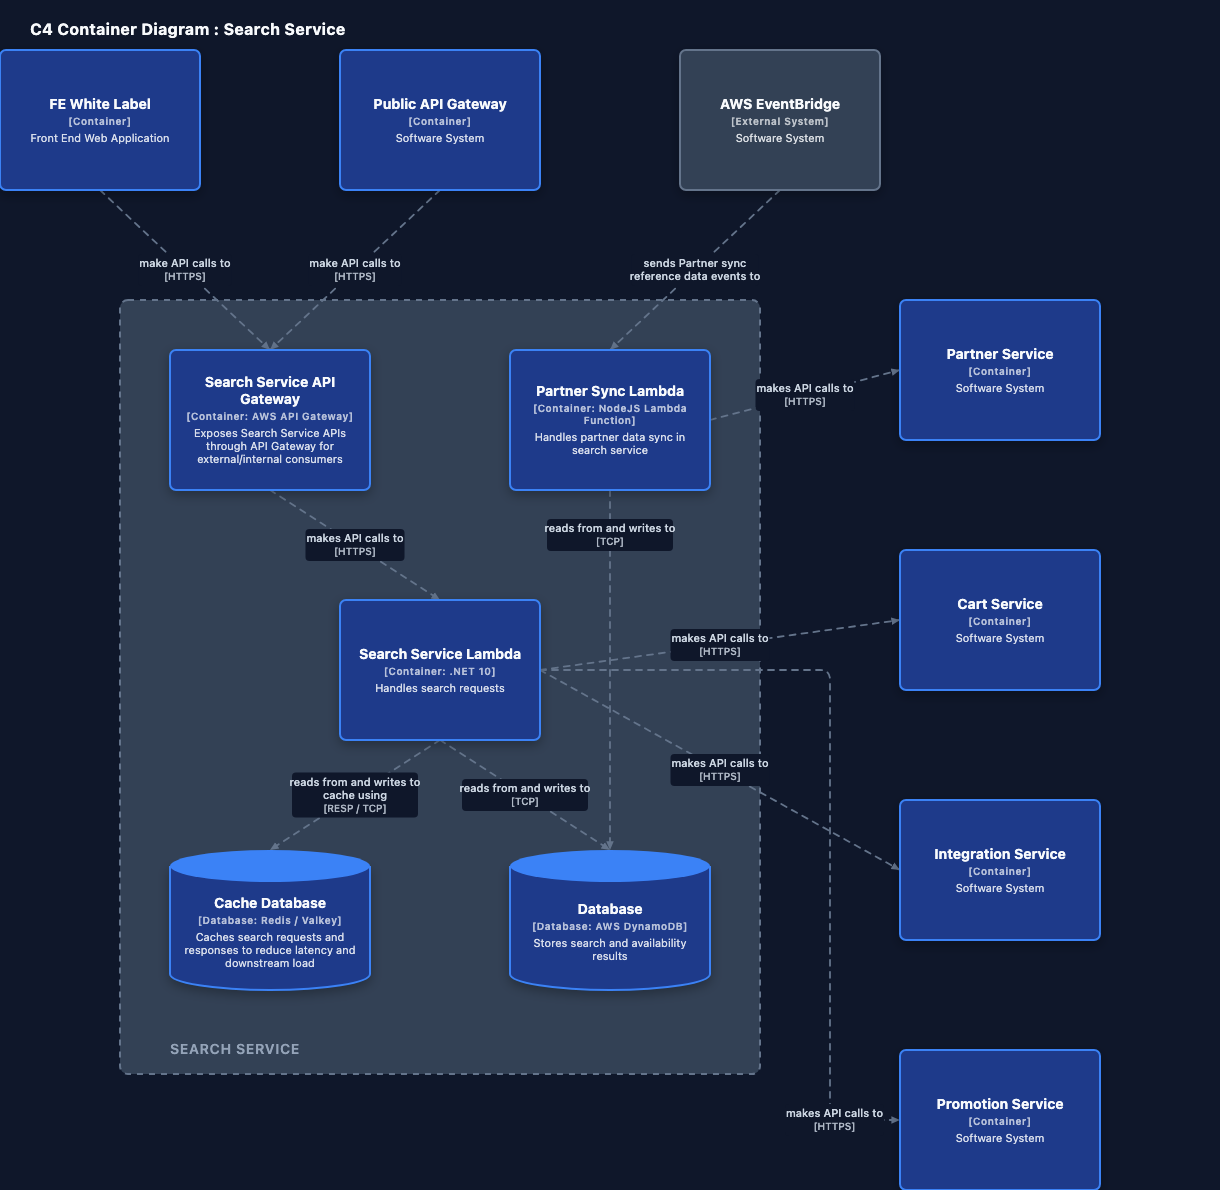
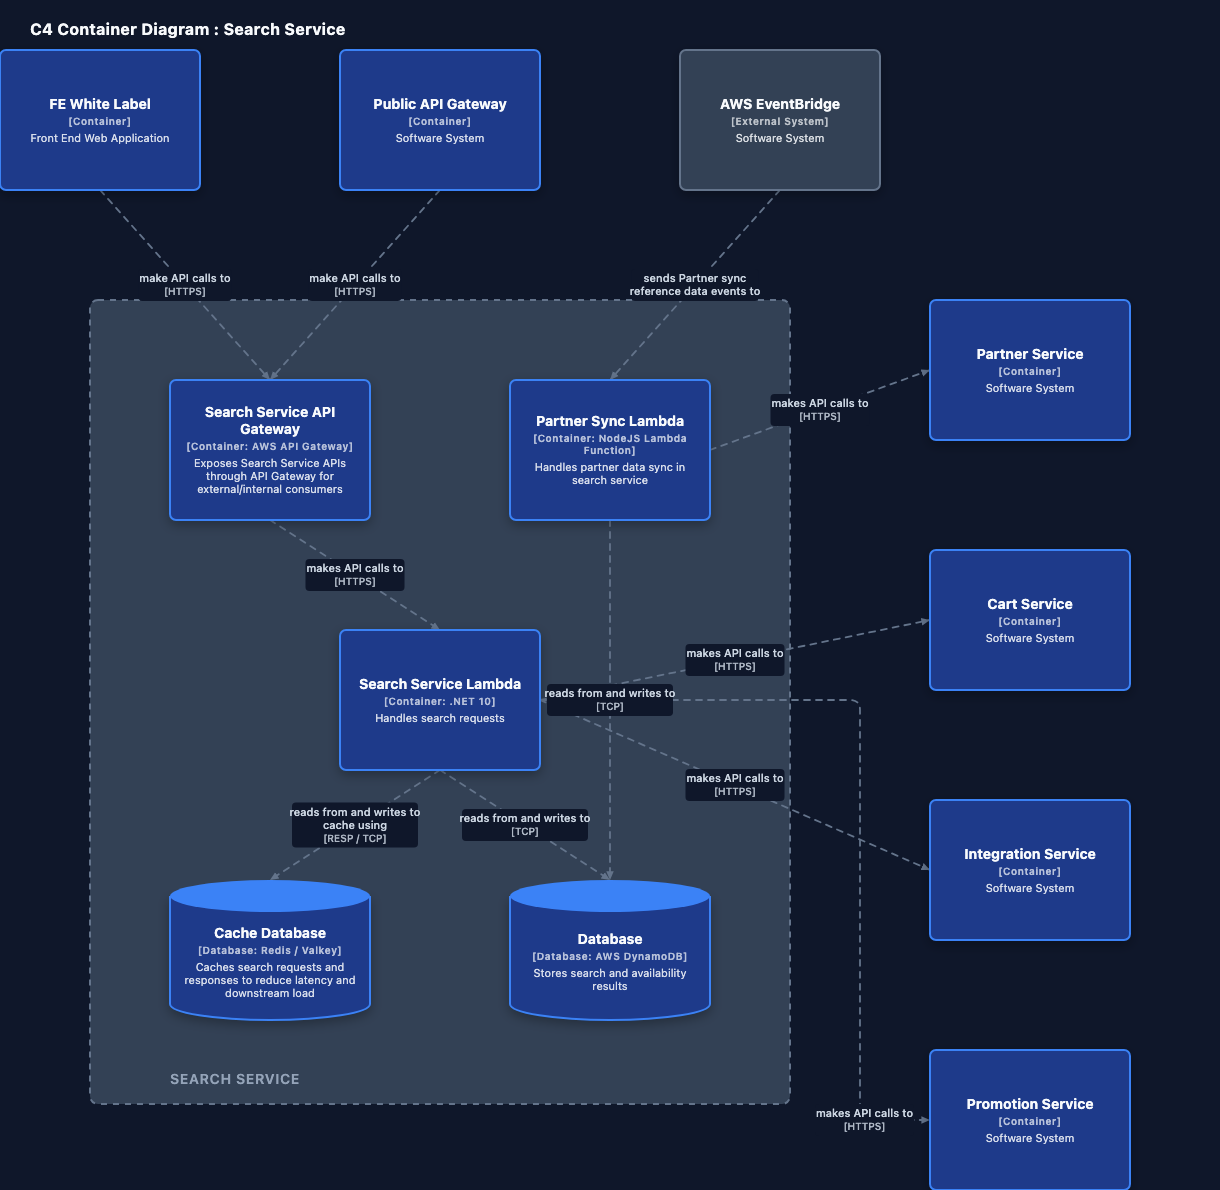
Update boundary padding to 80px and regenerate search service container diagram

diff --git a/src/render_engine.js b/src/render_engine.js
@@ -124,7 +124,7 @@
       const options = diagramData.layoutOptions || {};
       const H_GAP   = Number(options["elk.spacing.nodeNode"] || 80);
       const V_GAP   = Number(options["elk.layered.spacing.nodeNodeBetweenLayers"] || 80);
-      const B_PAD   = 50;   // boundary left/right/top padding
+      const B_PAD   = 80;   // boundary left/right/top padding
       const B_BOT   = 84;   // boundary bottom clearance (label area)
       const EXT_GAP = Number(options["elk.layered.spacing.nodeNodeBetweenLayers"] || 80);
 
@@ -1060,7 +1060,7 @@
 
     const MAX_LABEL_WIDTH = 120;
     const LINE_HEIGHT = 13;
-    const BOUNDARY_H_PAD = 50;
+    const BOUNDARY_H_PAD = 80;
 
     function wrapText(text, maxWidth, fontSize) {
       const words = text.split(' ');

diff --git a/docs/container-diagram-layout.md b/docs/container-diagram-layout.md
@@ -57,7 +57,7 @@ This prevents utility/support nodes (e.g. background lambdas with no callers) fr
 ### 1b: Boundary dimensions
 
 ```
-bndW = max(layer widths) + 2 × B_PAD     (B_PAD = 50px each side)
+bndW = max(layer widths) + 2 × B_PAD     (B_PAD = 80px each side)
 bndH = sum(layer heights) + (layers-1) × V_GAP + B_PAD + B_BOT
 ```
 
@@ -66,7 +66,7 @@ Constants & Sizing Rules:
 |-----------------|-------|---------|
 | `H_GAP`         | 80px  | Horizontal gap between nodes in the same layer |
 | `V_GAP`         | 80px  | Vertical gap between layers |
-| `B_PAD`         | 50px  | Boundary padding — left, right, and top |
+| `B_PAD`         | 80px  | Boundary padding — left, right, and top |
 | `B_BOT`         | 84px  | Bottom clearance for the boundary label area |
 | Default Width   | 200px | Standardized width for all nodes (database, person, container, external) to align them nicely in a grid |
 | Default Height  | 80px / 140px | Standardized heights: 140px for database, person, container, and external systems; 80px for other types |